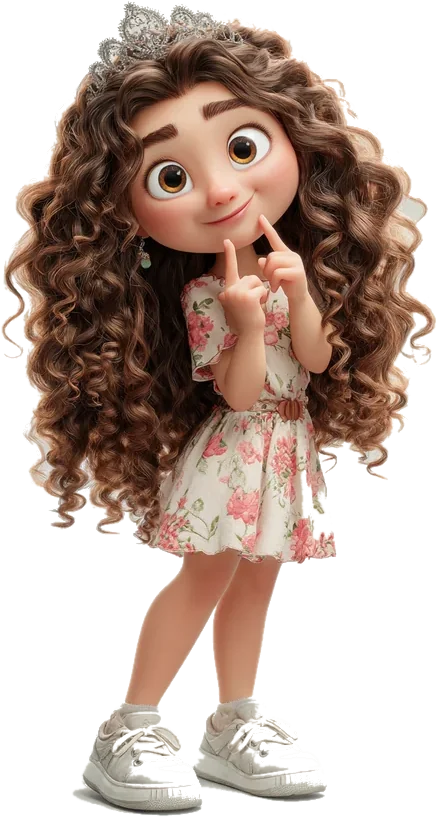
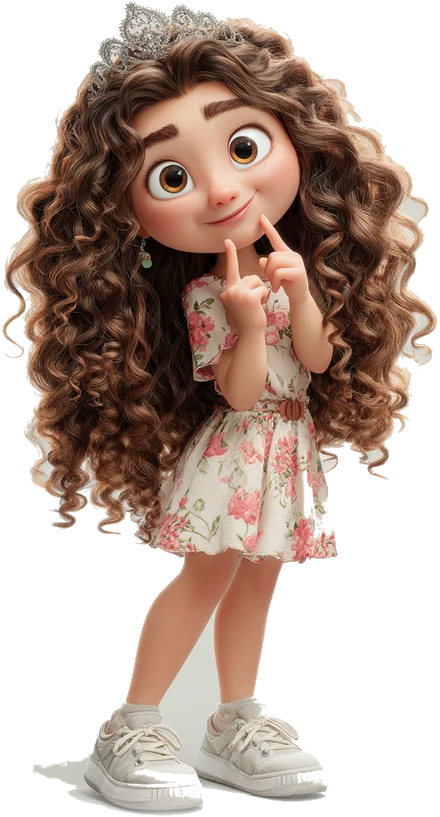
Pes da Lala de volta, faixa roxa resolvida e ela viaja no espaco
OS PES CORTADOS: minhas passadas de limpeza eram cumulativas — corte de
chao, depois desvanecimento, depois corte de novo — e cada uma comia mais
um pedaco. Os tenis dela sumiram. Refeito do original numa passada so, e a
sombra do chao agora sai por cor (cinza-claro longe do eixo dos pes) em vez
de por corte de linha.

A FAIXA ROXA, DE VEZ: a camada de fundo saiu de dentro do #app e virou irma
dele, presa na janela. Nenhum recorte de ancestral pode corta-la, e ela
cobre qualquer tela em qualquer proporcao. O app ficou transparente — quem
pinta o fundo agora e so a camada. Testado com o app 45px mais curto que a
janela: o que aparece embaixo e o ceu, nao mais a cor do body.

MAIS DA LALA PEQUENA: as transicoes dos tres mundos passaram a ser ela
pequena, em variacoes diferentes das que estao nos cartoes (lara-corpo2,
lara-espaco2, lara-velha2). A versao crescida ficou so no cartao do
Sistema Solar, como o Ademir pediu.

ELA VIAJA NO ESPACO: o foguete emoji da barra de progresso virou a Lala em
pe no planetinha dela, andando do Sol ate Netuno conforme ela arrasta. Na
chegada, flutua comemorando.

diff --git a/css/style.css b/css/style.css
@@ -27,6 +27,11 @@
 *,*::before,*::after{box-sizing:border-box;margin:0;padding:0}
 
 html,body{height:100%;min-height:100%}
+/* três garantias contra a faixa da cor do body aparecendo embaixo:
+   1) o html também recebe a cor escura
+   2) o app usa a maior altura possível da janela (lvh), não só a dinâmica
+   3) a camada de fundo é fixa e cobre a janela inteira */
+html{background:#0F0A24}
 
 body{
   background:#0F0A24;
@@ -53,7 +58,7 @@ button{font:inherit;color:inherit;border:0;background:none;cursor:pointer;touch-
   max-width:520px;
   margin:0 auto;
   min-height:100dvh;height:100dvh;
-  background:linear-gradient(170deg,#FFF6FB 0%,#F4ECFF 55%,#E9E2FF 100%);
+  background:transparent;                 /* quem pinta o fundo é a camada .fundo */
   overflow:hidden;
   box-shadow:0 0 70px rgba(0,0,0,.45);
 }
@@ -65,7 +70,8 @@ button{font:inherit;color:inherit;border:0;background:none;cursor:pointer;touch-
    =========================================================== */
 /* fixo na janela, não dentro do app: assim nunca sobra faixa da cor do body
    quando a barra do navegador entra e sai no iPhone */
-.fundo{position:fixed;inset:0;z-index:0;overflow:hidden;pointer-events:none}
+.fundo{position:fixed;inset:0;z-index:0;overflow:hidden;pointer-events:none;
+  background:linear-gradient(170deg,#FFF6FB 0%,#F4ECFF 55%,#E9E2FF 100%)}
 .fundo__foto{
   position:absolute;inset:0;opacity:0;
   background-size:cover;background-position:center;
@@ -734,9 +740,15 @@ button{font:inherit;color:inherit;border:0;background:none;cursor:pointer;touch-
   background:rgba(255,255,255,.16);border:1px solid rgba(255,255,255,.14);
 }
 .viagem-barra__foguete{
-  position:absolute;top:50%;left:0;transform:translate(-50%,-50%);
-  font-size:22px;font-style:normal;transition:left .12s linear;
+  position:absolute;bottom:-4px;left:0;transform:translateX(-50%);
+  transition:left .12s linear;line-height:0;
 }
+.viagem-barra__foguete img{
+  height:62px;width:auto;display:block;
+  filter:drop-shadow(0 4px 10px rgba(0,0,0,.6));
+}
+.viagem-barra__foguete.is-chegou img{animation:float 1.6s ease-in-out infinite}
+.viagem-barra{padding-top:52px}
 .viagem-barra__texto{font-size:13px;font-weight:800;text-align:center;opacity:.9;
   text-shadow:0 2px 6px rgba(0,0,0,.85)}
 

diff --git a/index.html b/index.html
@@ -17,14 +17,15 @@
 </head>
 <body>
 
+<!-- camada de fundo: uma imagem por tela, com véu de legibilidade por cima -->
+<div class="fundo" id="fundo" aria-hidden="true">
+  <div class="fundo__foto" id="fundo-a"></div>
+  <div class="fundo__foto" id="fundo-b"></div>
+  <div class="fundo__veu" id="fundo-veu"></div>
+</div>
+
 <div id="app" class="app">
 
-  <!-- camada de fundo: uma imagem por tela, com véu de legibilidade por cima -->
-  <div class="fundo" id="fundo" aria-hidden="true">
-    <div class="fundo__foto" id="fundo-a"></div>
-    <div class="fundo__foto" id="fundo-b"></div>
-    <div class="fundo__veu" id="fundo-veu"></div>
-  </div>
 
   <!-- ============ PORTA DE ENTRADA (destrava o som) ============ -->
   <section class="screen screen--start is-active" id="screen-start">
@@ -266,7 +267,11 @@
     </div>
     <div class="viagem-scroll" id="viagem-scroll"></div>
     <div class="viagem-barra">
-      <div class="viagem-barra__trilho"><i class="viagem-barra__foguete" id="viagem-foguete">🚀</i></div>
+      <div class="viagem-barra__trilho">
+        <span class="viagem-barra__foguete" id="viagem-foguete">
+          <img src="img/lara-viajante.webp" alt="">
+        </span>
+      </div>
       <span class="viagem-barra__texto" id="viagem-texto">Saindo do Sol</span>
     </div>
   </section>

diff --git a/js/app.js b/js/app.js
@@ -132,10 +132,12 @@ var App = (function () {
      Um segundo, sem travar nada: o jogo já está carregando por baixo.
      A versão crescida abre a porta do mundo; a pequena brinca junto.
      ========================================================= */
+  /* A Lalá pequena é a companheira de brincadeira — é ela que entra nos
+     mundos. A versão crescida ficou só no cartão do Sistema Solar. */
   var PASSAGENS = {
-    'corpo-menu':    'lara-cientista',
-    'espaco-menu':   'lara-astronauta',
-    'velha-menu':    'lara-princesa',
+    'corpo-menu':    'lara-corpo2',
+    'espaco-menu':   'lara-espaco2',
+    'velha-menu':    'lara-velha2',
     'palavras-jogar':'lara-palavras'
   };
   var passagemNoAr = null;
@@ -366,6 +368,7 @@ var App = (function () {
     var vao = trilha.scrollWidth - trilha.clientWidth;
     var andado = vao > 0 ? trilha.scrollLeft / vao : 0;
     $('#viagem-foguete').style.left = Math.round(andado * 100) + '%';
+    $('#viagem-foguete').classList.toggle('is-chegou', andado > 0.985);
 
     /* qual foi a última parada que ela já passou */
     var frente = trilha.scrollLeft + 40;   /* a beirada do foguete, não o meio da tela */

diff --git a/sw.js b/sw.js
@@ -1,7 +1,7 @@
 /* Service worker — o app abre offline e se atualiza sozinho.
    Estratégia: entrega o que está em cache na hora (rápido pra criança)
    e, em paralelo, baixa a versão nova pro próximo abrir. */
-var CACHE = 'mundo-da-lara-v16';
+var CACHE = 'mundo-da-lara-v17';
 var ARQUIVOS = [
   './',
   'index.html',
@@ -31,13 +31,17 @@ var ARQUIVOS = [
   'img/lara-astronauta.webp',
   'img/lara-cientista.webp',
   'img/lara-corpo.webp',
+  'img/lara-corpo2.webp',
   'img/lara-espaco.webp',
+  'img/lara-espaco2.webp',
   'img/lara-festa.webp',
   'img/lara-oi.webp',
   'img/lara-palavras.webp',
   'img/lara-princesa.webp',
   'img/lara-unicornio.webp',
   'img/lara-velha.webp',
+  'img/lara-velha2.webp',
+  'img/lara-viajante.webp',
   'img/planeta-jupiter-b.webp',
   'img/planeta-jupiter.webp',
   'img/planeta-marte-b.webp',
